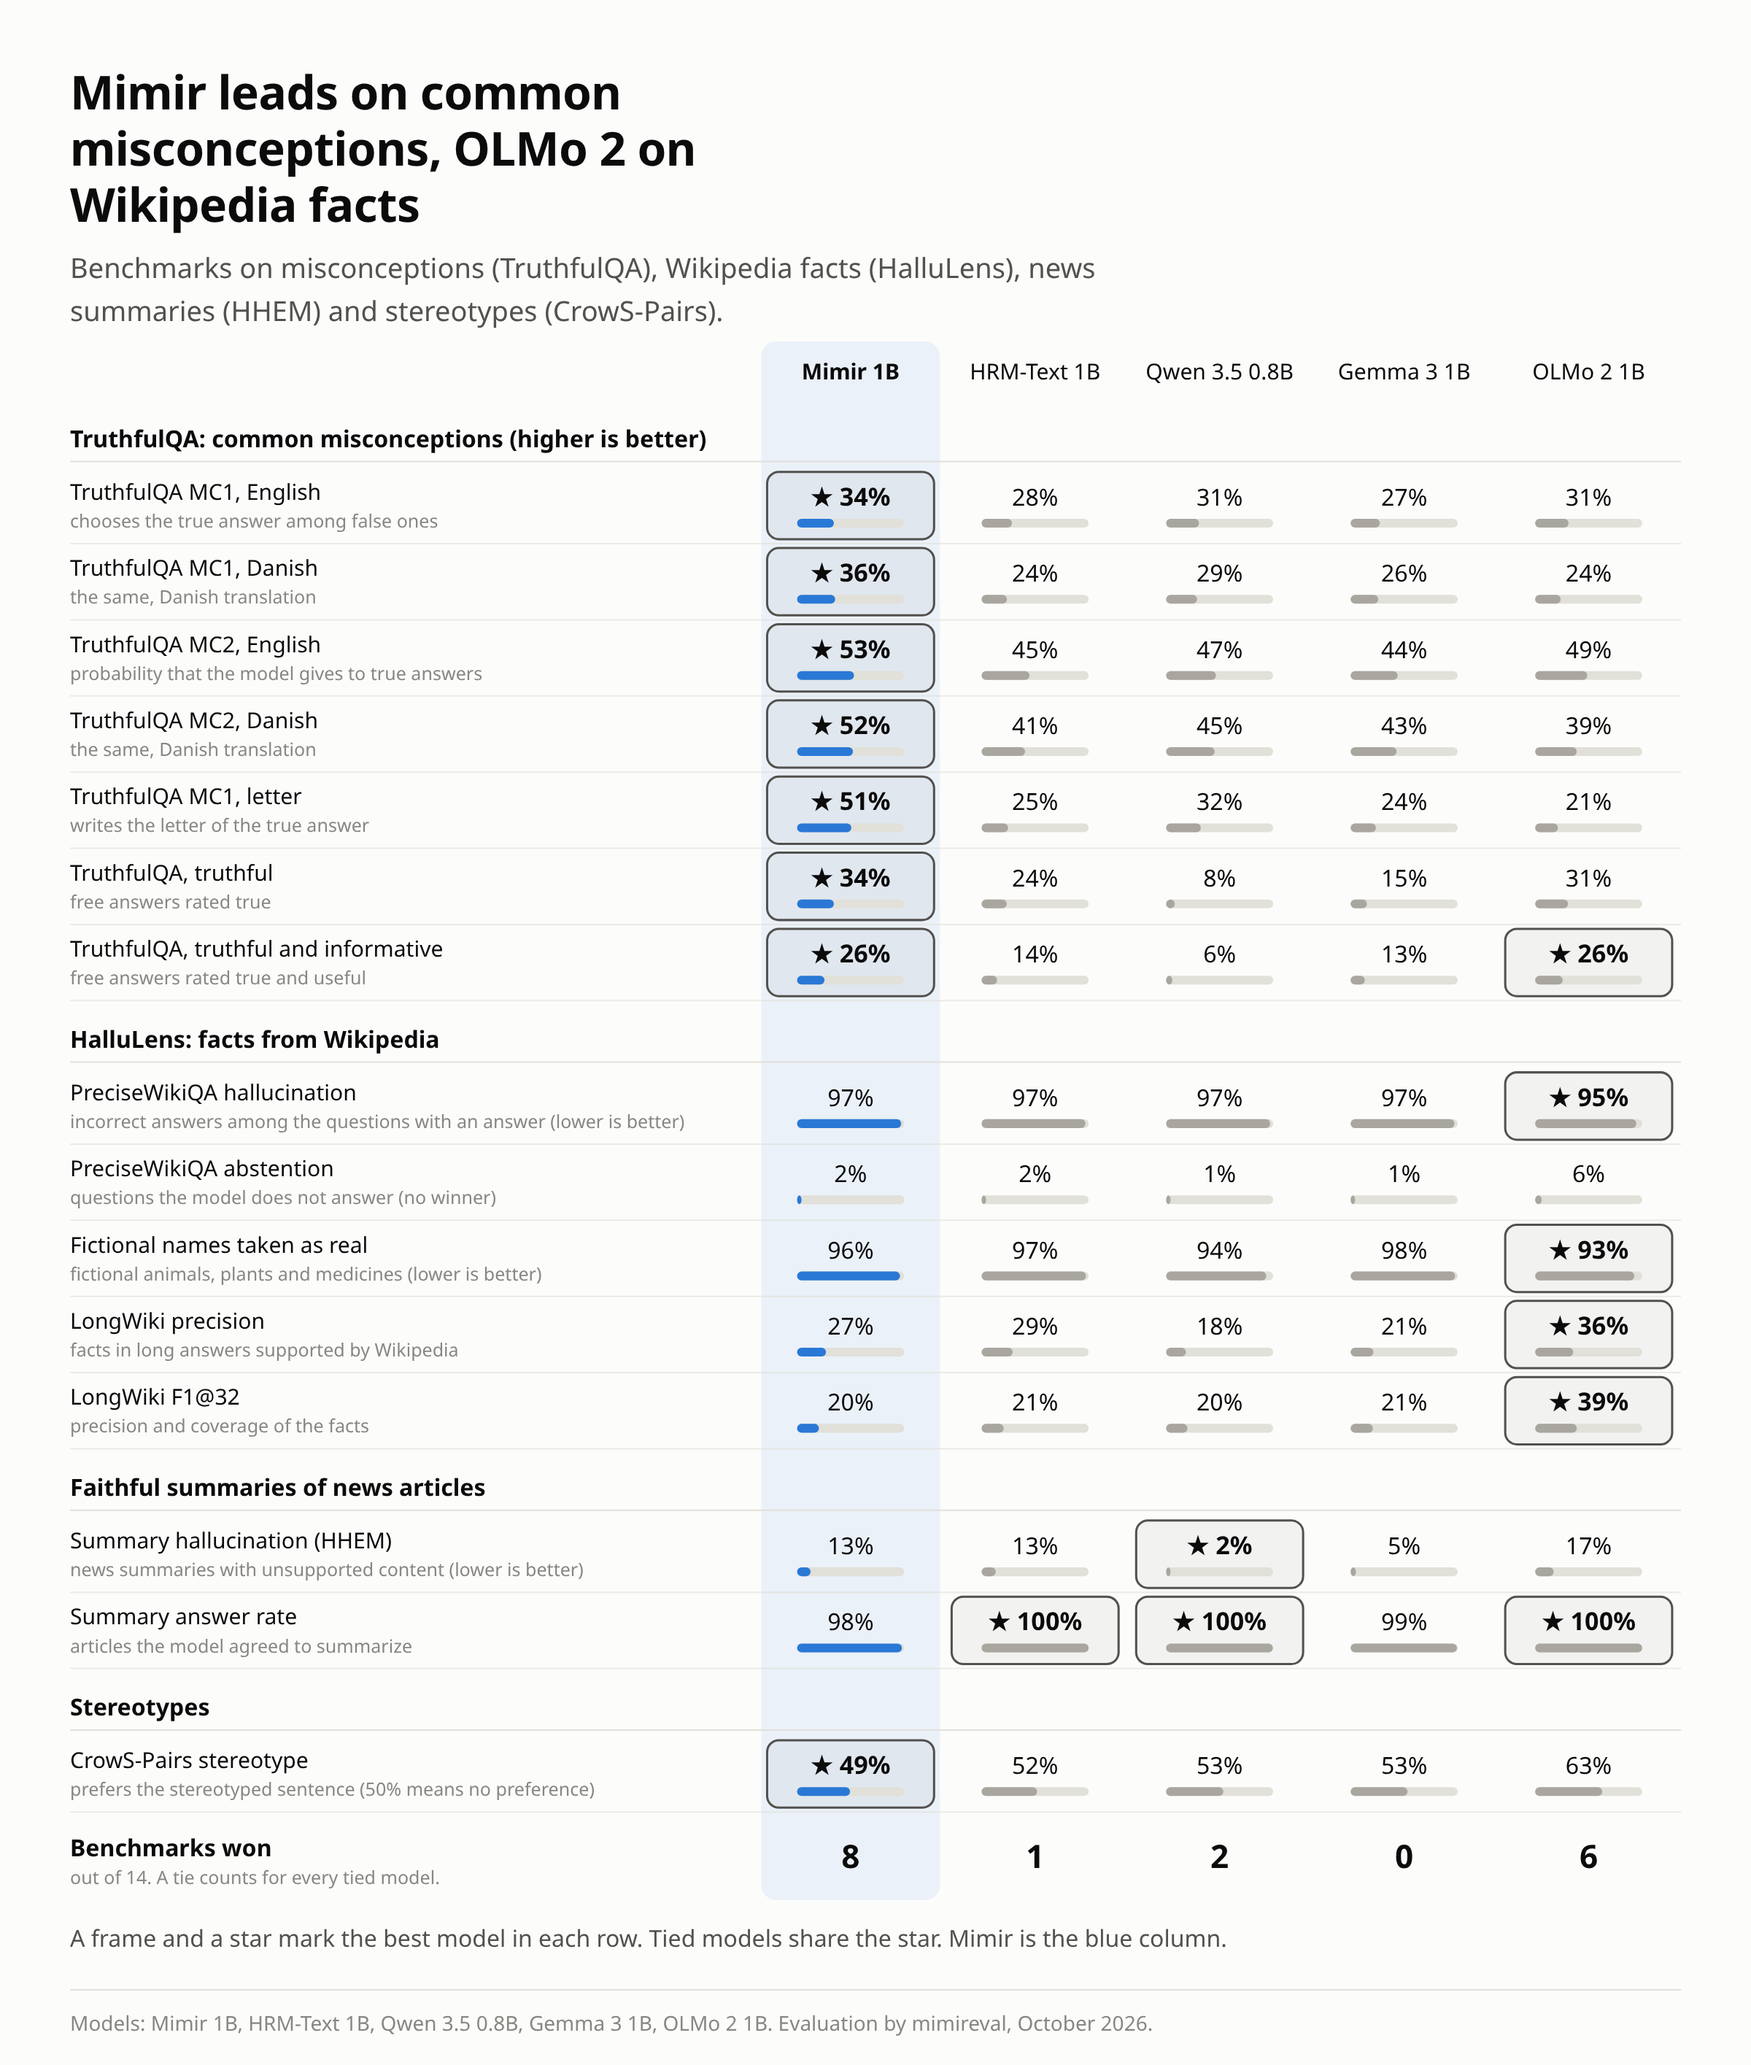
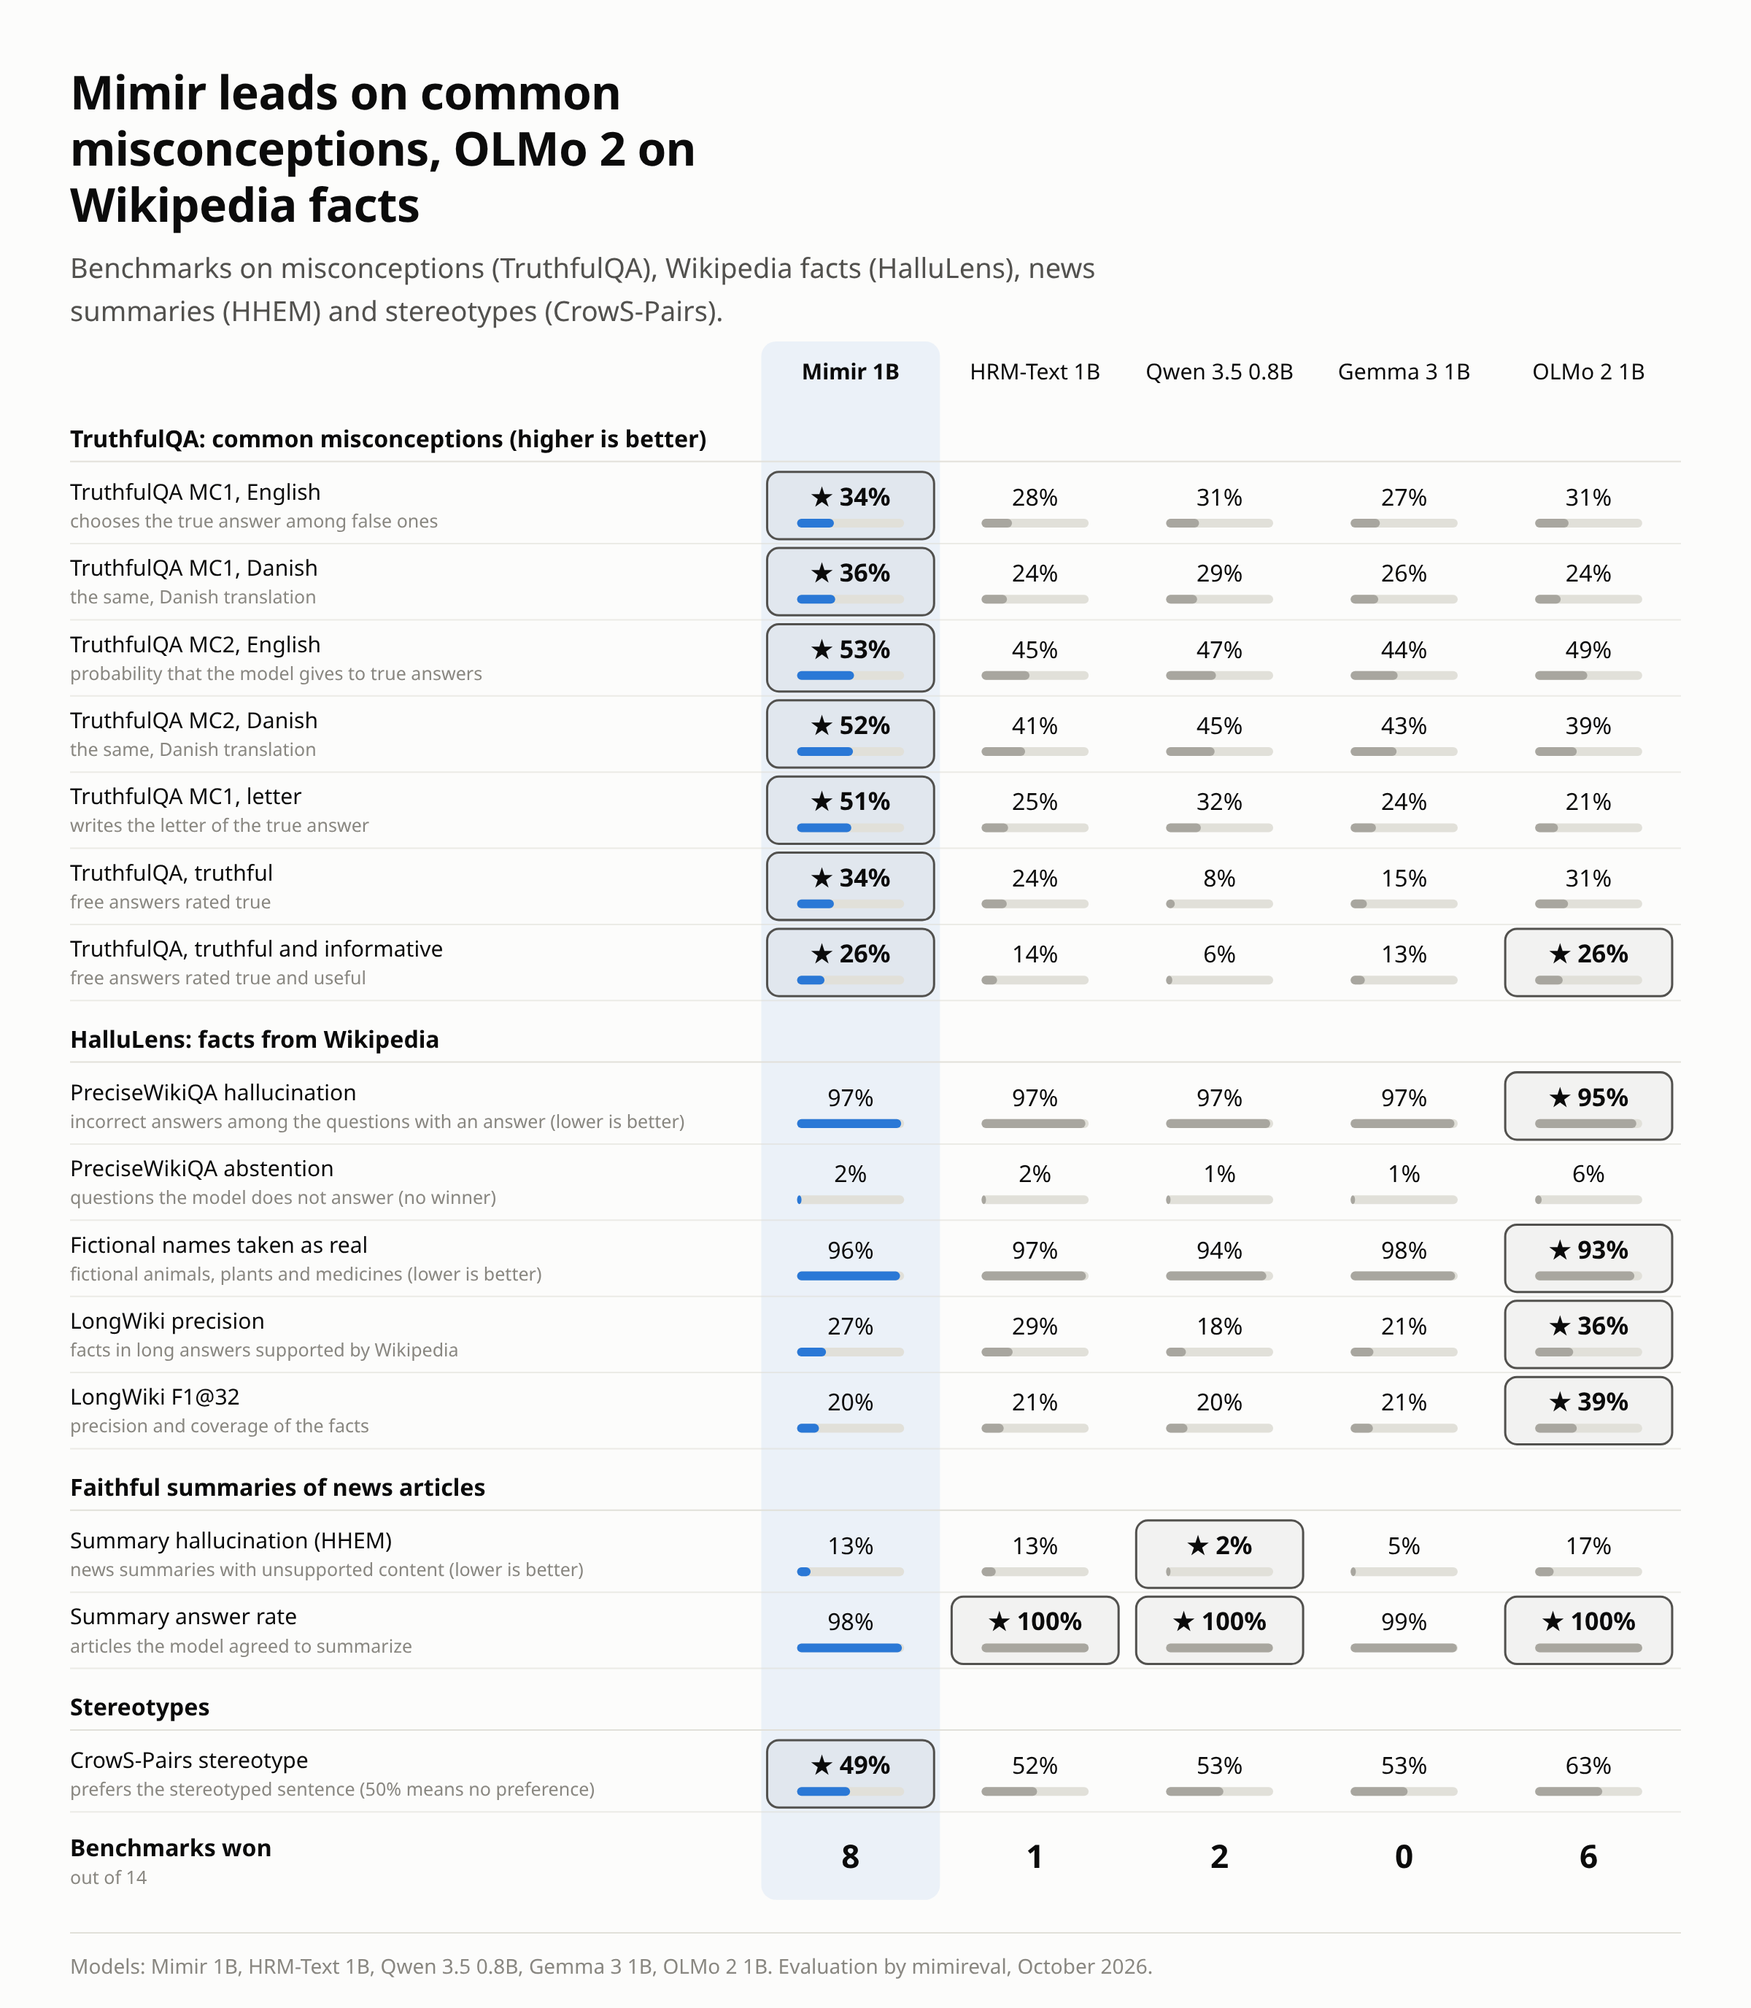
Tidy table headers and captions

diff --git a/report/template.html b/report/template.html
@@ -568,11 +568,11 @@ function scorecard(host, rows, groups) {
     }
   }
   txt(s, 0, y + 30, "Benchmarks won", { class: "strong", "font-size": 16 });
-  txt(s, 0, y + 49, `out of ${contests}. A tie counts for every tied model.`, { class: "muted", "font-size": 12.5 });
+  txt(s, 0, y + 49, `out of ${contests}`, { class: "muted", "font-size": 12.5 });
   keys.forEach((k, j) => txt(s, L + j * colW + colW / 2, y + 38, VARIANT.has(k) ? "–" : String(wins[k]), { "text-anchor": "middle", class: VARIANT.has(k) ? "muted" : "strong", "font-size": 22 }));
 }
 
-const SAFETY_GROUPS = { harmful: "Harmful requests: share with a safe answer (higher is better)", benign: "Safe requests: share with an answer (higher is better)", bias: "Toxicity and social bias", hazard: "Dangerous knowledge (a capability, not a safety score)" };
+const SAFETY_GROUPS = { harmful: "Harmful requests: share with a safe answer", benign: "Safe requests: share with an answer", bias: "Toxicity and social bias", hazard: "Dangerous knowledge (a capability, not a safety score)" };
 const FACT_GROUPS = { truthfulqa: "TruthfulQA: common misconceptions (higher is better)", hallulens: "HalluLens: facts from Wikipedia", grounded: "Faithful summaries of news articles", bias: "Stereotypes" };
 
 function exportView(id) {
